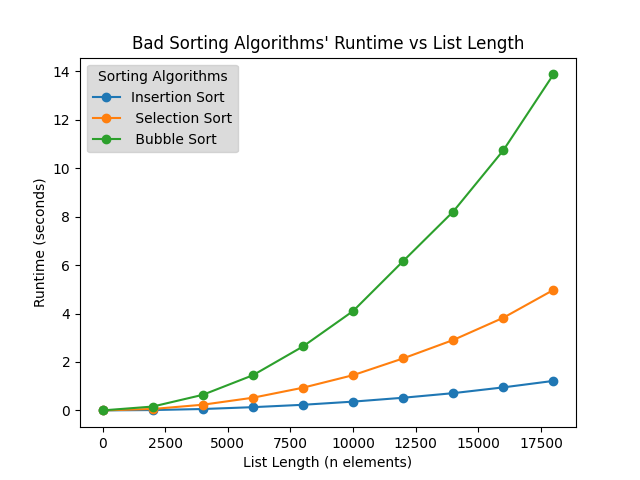
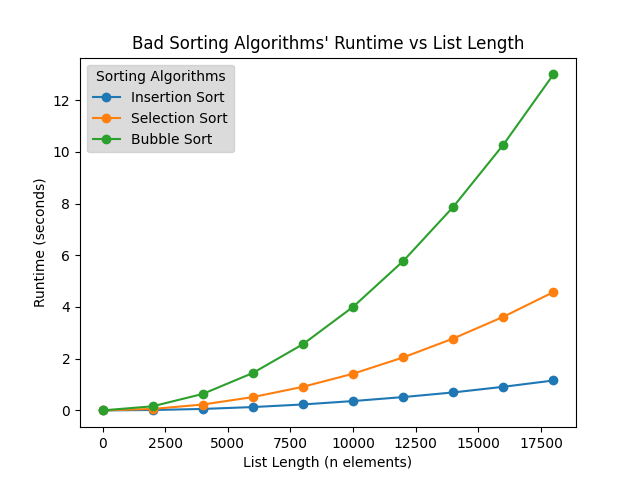
Change Img

diff --git a/Lab 1/Experiment 1/Experiment 1.py b/Lab 1/Experiment 1/Experiment 1.py
@@ -26,7 +26,7 @@ def conduct_AverageRuns(averageRunCount, sortingAlgFunc, target_List):
 # test_allSorts tests the 3 sorting algorithms for a specific amount of test_runs and plots the corresponding runtime results from each algorithm using matplotlib
 # Paramaters: test_runs(number of actual test runs), average_runs (number of average runs - done during each actual test run) and increaseList_factor(factor used to increase the list size)
 def test_allSorts(test_runs, average_runs, increaseList_factor):
-    list_max = 0
+    list_max = 100
     list_len = 0
     # declare the default max and len of list: 0
 
@@ -49,15 +49,14 @@ def test_allSorts(test_runs, average_runs, increaseList_factor):
         Bubble_times.append(Bubble_time_sum / average_runs)
         Selection_times.append(Selection_time_sum/ average_runs)
 
-        # increases the list's length by a correpsonding factor and the max of the list by 100
+        # increases the list's length by a corresponding factor
         list_len += increaseList_factor
-        list_max += 100
 
 
     # plots the runtimes of the 3 sorting algorithms with the following legends and axis titles
     plot.plot(list_lens, Insertion_times, marker='o', label='Insertion Sort')
-    plot.plot(list_lens, Selection_times, marker='o', label=' Selection Sort')
-    plot.plot(list_lens, Bubble_times, marker='o', label=' Bubble Sort')
+    plot.plot(list_lens, Selection_times, marker='o', label='Selection Sort')
+    plot.plot(list_lens, Bubble_times, marker='o', label='Bubble Sort')
     plot.legend(loc='upper left', title='Sorting Algorithms', fontsize=10, facecolor='lightgray')
     plot.xlabel('List Length (n elements)')
     plot.ylabel('Runtime (seconds)')
